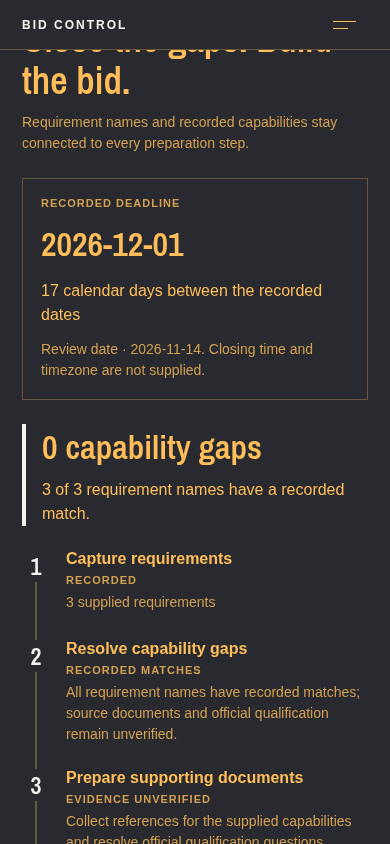
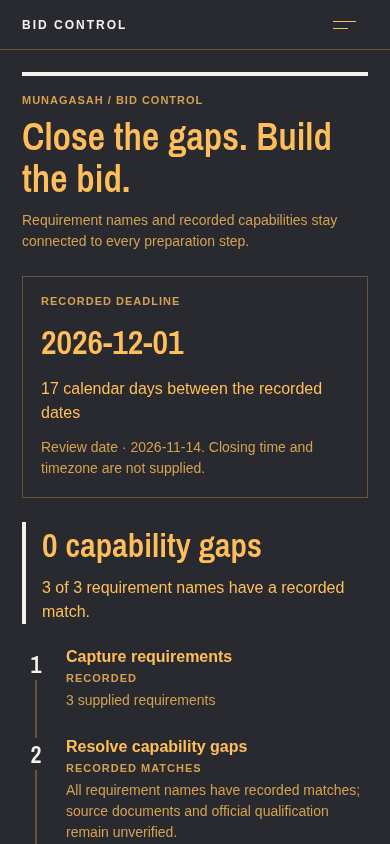
Put Munagasah deadline and bid gaps ahead of repeated workbench branding

diff --git a/mobile/src/app/(tabs)/workbench.tsx b/mobile/src/app/(tabs)/workbench.tsx
@@ -1,3 +1,4 @@
+import {MunagasahDesk} from '../../../components/MunagasahDesk';
 import {HimayahInspector} from '../../../components/HimayahInspector';
 import {NafasExperience} from '../../../components/NafasExperience';
 import React from 'react';
@@ -21,6 +22,7 @@ import workbenches from '../../experience/workbenches.json';
 /** Product-specific existing deterministic tools; no model/provider call is made here. */
 function Workbench(){
  const app=useApp(),w=workbenches[brandId],ready=app.hasInputs&&!caseInputIssue(brandId,app.draft)&&!inputIssue(app.draft,spec.schema);
+ if(brandId==='munagasah'&&ready)return <FocusScreen route="workbench" style={s.screen} edges={screenEdges}><ScrollView contentContainerStyle={{padding:22,paddingBottom:36}} keyboardShouldPersistTaps="handled"><MunagasahDesk input={app.draft} onChange={next=>app.setDraft({...next})}/></ScrollView></FocusScreen>;
  return <FocusScreen route="workbench" style={s.screen} edges={screenEdges}><ScrollView contentContainerStyle={{padding:22,paddingBottom:36,gap:24}} keyboardShouldPersistTaps="handled"><BrandSignature/><ExperienceTitle>{w.title}</ExperienceTitle><Text style={s.text}>{w.purpose}</Text>{brandId==='nafas'&&!ready&&<BreathingPause/>}{brandId==='rafiq'&&<WorldClock/>}{ready?<><Text style={s.tag}>Interactive tools · entered records</Text><DomainExperience/></>:<View style={{gap:22,borderTopWidth:2,borderColor:d.accent,paddingTop:20}}>{w.fields.map(key=><DataForm key={key} label={inputLabel(key)} schema={spec.schema.properties![key]} value={app.draft[key]} onChange={value=>app.setDraft(old=>({...old,[key]:value}))}/>)}<Text style={s.muted}>Add the remaining case details to use the complete tool. Entered values are kept when moving between screens.</Text></View>}<Button secondary title={'Open '+d.tabs[1].toLowerCase()} onPress={()=>router.push('/mission')}/><Text style={s.muted}>Device-side tools use entered records. They do not call a model, read a live account or perform external actions.</Text></ScrollView></FocusScreen>;
 }
 

diff --git a/mobile/scripts/check-munagasah-browser.py b/mobile/scripts/check-munagasah-browser.py
@@ -26,6 +26,6 @@ async def main():
   async with page.expect_download()as download:await page.get_by_role('button',name='Export bid preparation pack',exact=True).click()
   report=json.loads(pathlib.Path(await(await download.value).path()).read_text());assert report['plan']['gaps']==1;assert report['plan']['calendar_days_between_dates']==17;assert report['input']==agent['example'];assert not report['official_qualification_verified'];assert report['submission_status']=='not_submitted'
   assert await page.get_by_test_id('tender-gap-signal').evaluate('(e)=>getComputedStyle(e).opacity')=='1';await page.emulate_media(reduced_motion='no-preference');await page.wait_for_timeout(100);await page.clock.install();await page.get_by_role('button',name='All requirements',exact=True).click();await page.get_by_role('checkbox',name='Capability recorded for ISO9001',exact=True).click();await page.clock.run_for(50);opacity=float(await page.get_by_test_id('tender-gap-signal').evaluate('(e)=>getComputedStyle(e).opacity'));assert .5<opacity<1,opacity;await page.emulate_media(reduced_motion='reduce');await page.clock.run_for(100);assert await page.get_by_test_id('tender-gap-signal').evaluate('(e)=>getComputedStyle(e).opacity')=='1';assert not errors,errors;assert not any('/runs'in x for x in requests),requests
-  await page.get_by_test_id('tender-gap-count').scroll_into_view_if_needed();await page.screenshot(path=str(ROOT/'project/ui-signatures/munagasah-bid-control.png'))
-  (ROOT/'project/evidence/munagasah-preparation-browser.json').write_text(json.dumps({'checked_at':datetime.datetime.now(datetime.timezone.utc).isoformat(),'scope':'Actual Expo Web UI using the existing repository synthetic tender example through controlled intake transport. Not an authentic published tender, live countdown, provider inference or physical-device verification.','source_files_sha256':{f:hashlib.sha256((ROOT/f).read_bytes()).hexdigest()for f in ('mobile/components/MunagasahDesk.tsx','mobile/src/experience/tenderPreparation.ts')},'calendar_distance_matches_supplied_dates':True,'gap_filter_and_live_capability_edits':True,'download_reflects_saved_case_and_open_dependencies':True,'normal_motion_opacity':opacity,'live_reduced_motion_change_stops_transition':True,'console_warnings_and_errors':errors,'provider_inference_calls':0,'requests':requests},indent=2)+'\n');await browser.close();print('Passed date basis, gap filtering, capability edits, actual JSON download and reduced motion.')
+  await page.get_by_test_id('tender-gap-count').scroll_into_view_if_needed();await page.get_by_text('MUNAGASAH / BID CONTROL',exact=True).evaluate('(el)=>{for(let p=el.parentElement;p;p=p.parentElement){if(p.scrollHeight>p.clientHeight)p.scrollTop=0}}');await page.screenshot(path=str(ROOT/'project/ui-signatures/munagasah-bid-control.png'))
+  (ROOT/'project/evidence/munagasah-preparation-browser.json').write_text(json.dumps({'checked_at':datetime.datetime.now(datetime.timezone.utc).isoformat(),'scope':'Actual Expo Web UI using the existing repository synthetic tender example through controlled intake transport. Not an authentic published tender, live countdown, provider inference or physical-device verification.','source_files_sha256':{f:hashlib.sha256((ROOT/f).read_bytes()).hexdigest()for f in ('mobile/components/MunagasahDesk.tsx','mobile/src/experience/tenderPreparation.ts','mobile/src/app/(tabs)/workbench.tsx')},'calendar_distance_matches_supplied_dates':True,'gap_filter_and_live_capability_edits':True,'download_reflects_saved_case_and_open_dependencies':True,'normal_motion_opacity':opacity,'live_reduced_motion_change_stops_transition':True,'console_warnings_and_errors':errors,'provider_inference_calls':0,'requests':requests},indent=2)+'\n');await browser.close();print('Passed date basis, gap filtering, capability edits, actual JSON download and reduced motion.')
 asyncio.run(main())

diff --git a/mobile/scripts/check-matrix-browser.py b/mobile/scripts/check-matrix-browser.py
@@ -33,7 +33,7 @@ async def main():
    await page.goto(os.environ.get('EXPO_AUDIT_ORIGIN','http://127.0.0.1:8091')+'/mission?variant='+id,wait_until='networkidle');connect=page.get_by_role('button',name='Connect for ',exact=False);await connect.click();await page.get_by_label('HTTPS server',exact=True).fill('https://controlled-workspace.example');await page.get_by_label('Workspace access token, not provider API key',exact=True).fill('ui-test-only');await page.get_by_role('button',name='Connect workspace',exact=True).click();await page.get_by_role('button',name='Prepare the case',exact=True).click();await page.get_by_role('button',name='Use these proposed inputs',exact=True).click()
    nav=page.get_by_role('button',name='Open navigation',exact=True)
    if await nav.count()and await nav.is_visible():await nav.click()
-   await page.get_by_role('tab',name=workbenches[id]['tab'],exact=True).click();await page.get_by_text('HIMAYAH / DOCUMENT INSPECTOR',exact=True).wait_for() if id=='himayah' else await page.get_by_text('Interactive tools · entered records',exact=True).wait_for();assert not errors,(id,errors);assert not any('/runs' in x for x in requests)
+   await page.get_by_role('tab',name=workbenches[id]['tab'],exact=True).click();await page.get_by_text('HIMAYAH / DOCUMENT INSPECTOR',exact=True).wait_for() if id=='himayah' else await page.get_by_text('MUNAGASAH / BID CONTROL',exact=True).wait_for() if id=='munagasah' else await page.get_by_text('Interactive tools · entered records',exact=True).wait_for();assert not errors,(id,errors);assert not any('/runs' in x for x in requests)
    if capture:await page.screenshot(path=str(capture/(id+'.png')))
    rows.append({'app':id,'status':'passed','scope':'Actual browser rendering and local tool interaction using the existing repository synthetic example through controlled intake transport','case_input_sha256':hashlib.sha256(json.dumps(agent['example'],sort_keys=True).encode()).hexdigest(),'provider_calls':0,'external_actions':0,'console_warnings_and_errors':errors});print('Passed',id,flush=True);await context.close()
   await b.close()

diff --git a/project/native-design-execution/STATUS.md b/project/native-design-execution/STATUS.md
@@ -28,3 +28,5 @@ GitHub Code checks passed for this code revision: https://github.com/remidiovian
 Replaced generic percentage/outline cards with a technical preparation desk. The workflow connects each supplied requirement to a recorded capability, exposes gaps and preparation dependencies, and exports the current saved case. Deadline status is a calendar-date comparison against the recorded review date, not a live countdown or a verified closing-time claim. Duplicate names and invalid dates stop assessment. Unrelated capability records survive edits; no evidence is silently authenticated.
 
 90 mobile tests, typecheck, lint and 25 variant checks passed. The dedicated browser test covers actual record edits, gap filtering, downloaded JSON and motion preferences using explicitly controlled synthetic intake. Expo 58 file-system/sharing and React Native Animated documentation were consulted; no dependency was added. Native sharing and physical-device usability are still unverified. The previous Istithmar first-five export (44143462960) completed successfully before these changes.
+
+Visual inspection exposed duplicated workbench branding above the Munagasah task. Its populated preparation route now renders the bid desk directly, keeping the original input setup available when the case is incomplete. This removes the generic masthead, repeated title and technical “entered records” label from the actual workflow. The focused browser test passed again after that change.
